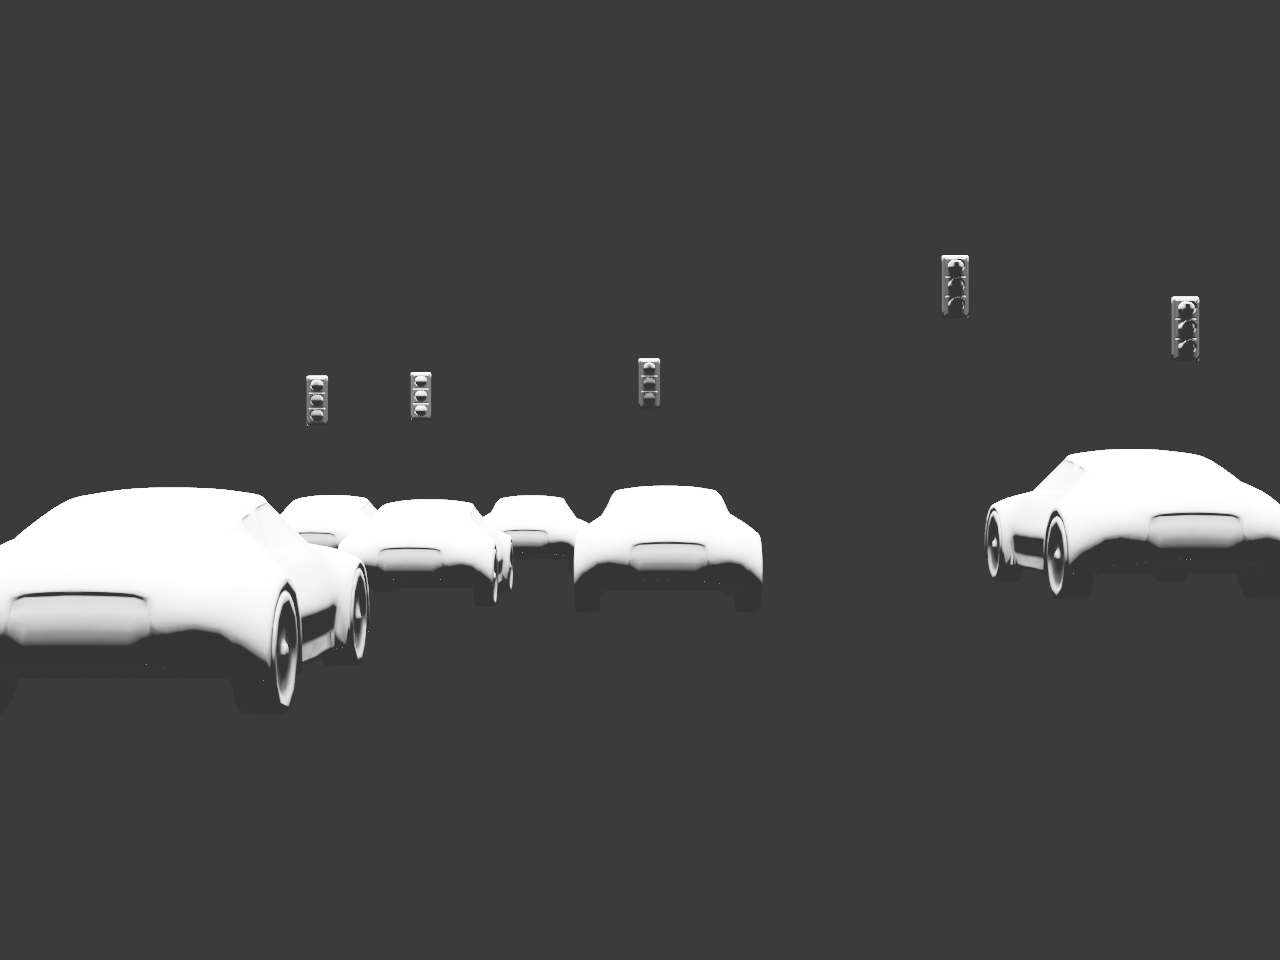
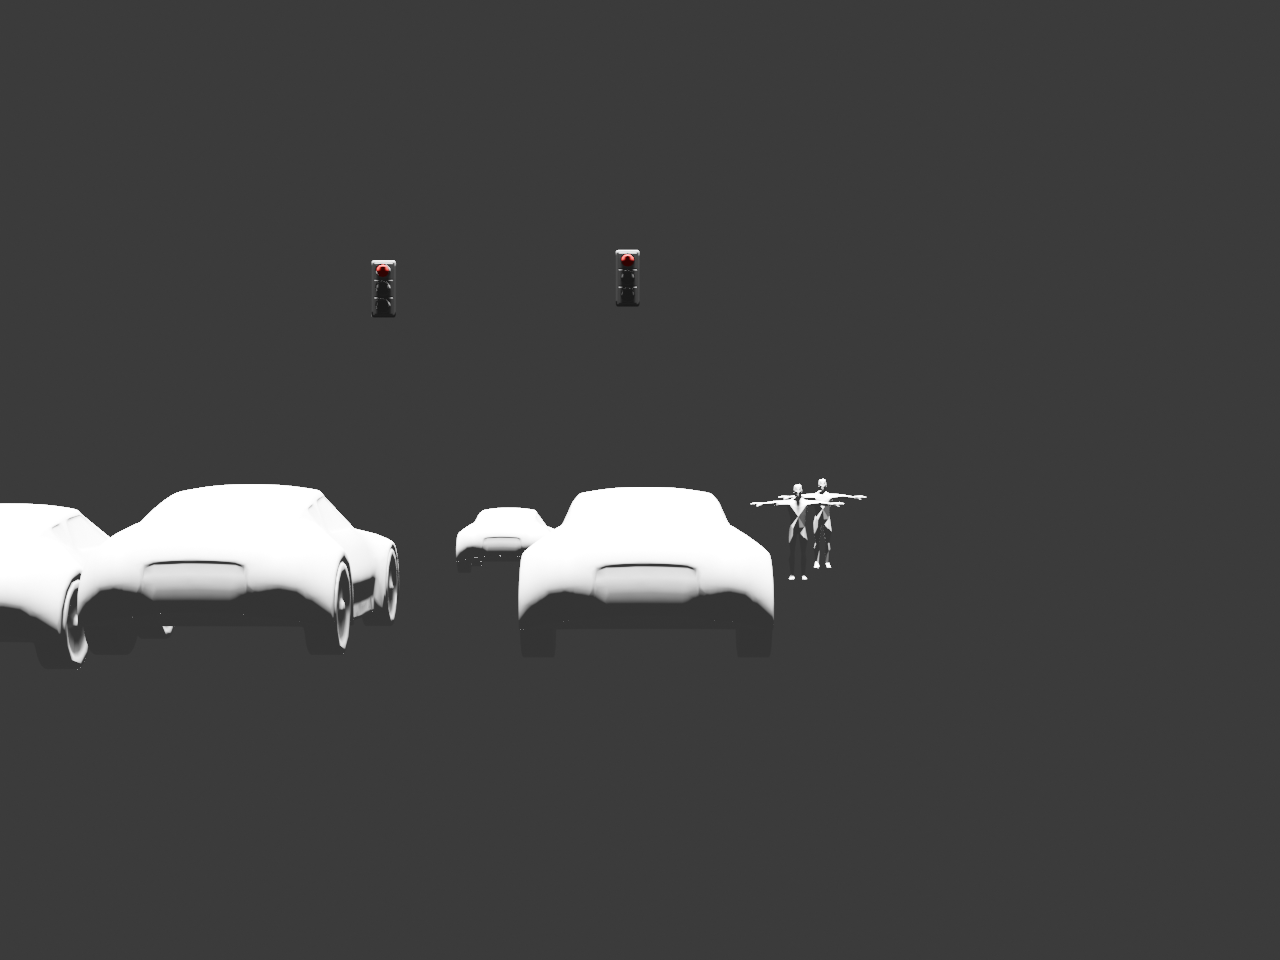
Moved some data around, can output colored stop sign and traffic lights

diff --git a/Code/blender_script1.py b/Code/blender_script1.py
@@ -96,7 +96,7 @@ class AssetType(enum.Enum):
     FireHyrant = ("TrafficAssets.blend", "Circle.002", (0, 0, 0), 1.5, None)
     SmallPole = ("TrafficAssets.blend", "Cylinder.001", (0, 0, 0), 1.0, None) # Probably f, or a chain gate or something, probably won't use   
     SpeedLimitSign = ("SpeedLimitSign.blend", "sign_25mph_sign_25mph", (0, 0, 0), 4.0, None)
-    TrafficLight = ("TrafficSignal.blend", "Traffic_signal1", (PI/2, 0, PI/2), 1.5, None)
+    TrafficLight = ("TrafficSignalRed.blend", "Traffic_signal1", (PI/2, 0, PI/2), 1.5, None)
     # Lane markings
 
     def __init__(self, file_path, obj_name, default_rotation, default_scaling, texture_path):
@@ -276,7 +276,7 @@ def main():
     # create_random_cars(10)
 
     print("Creating assetcontroller")
-    asset_controller = AssetController('data3.json')
+    asset_controller = AssetController('data2.json')
     asset_controller.place_first_frame()
         
     save_scene(os.path.join(ASSETS_DIR, "..", "script_test.blend"))
@@ -289,7 +289,7 @@ def main():
 
     add_light((0, 0, 100), 'SUN', 100)
 
-    set_output_settings(os.path.join(BASE_PATH, "out6.png"), frame_start=1, frame_end=1)
+    set_output_settings(os.path.join(BASE_PATH, "out1.png"), frame_start=1, frame_end=1)
     print("Output settings set")
     bpy.ops.render.render(write_still=True)
     print("Rendered image")
